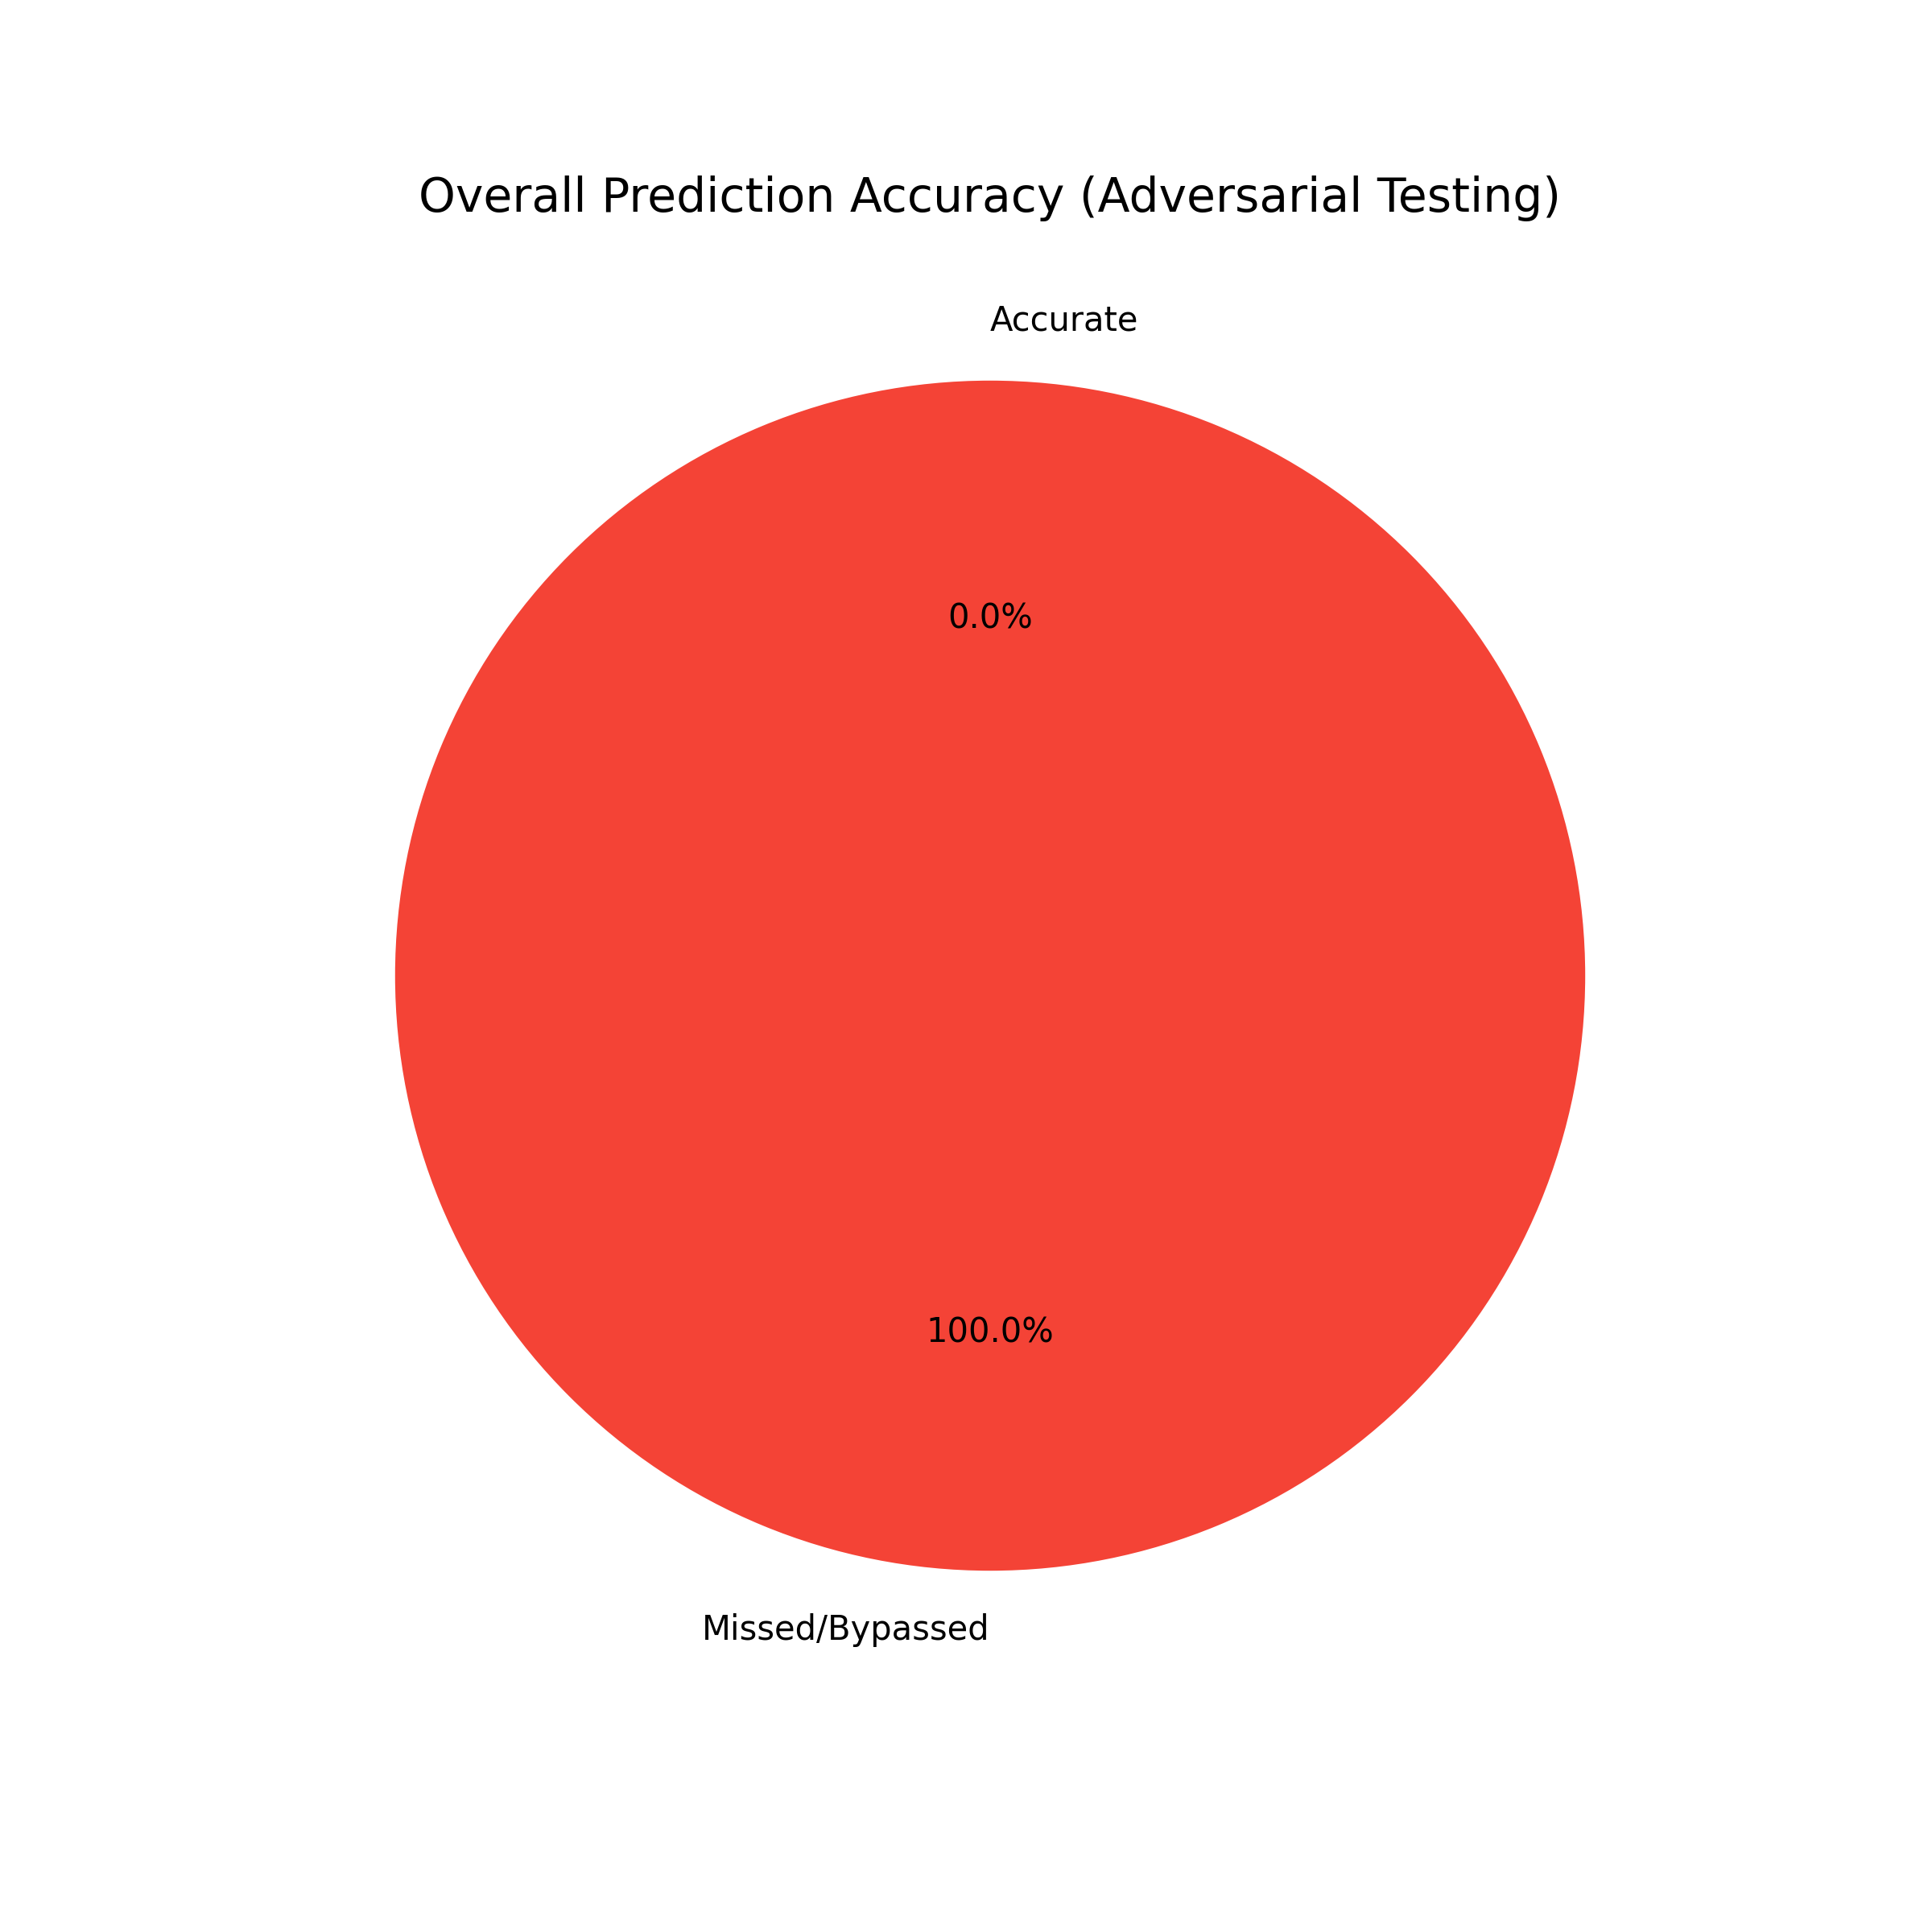
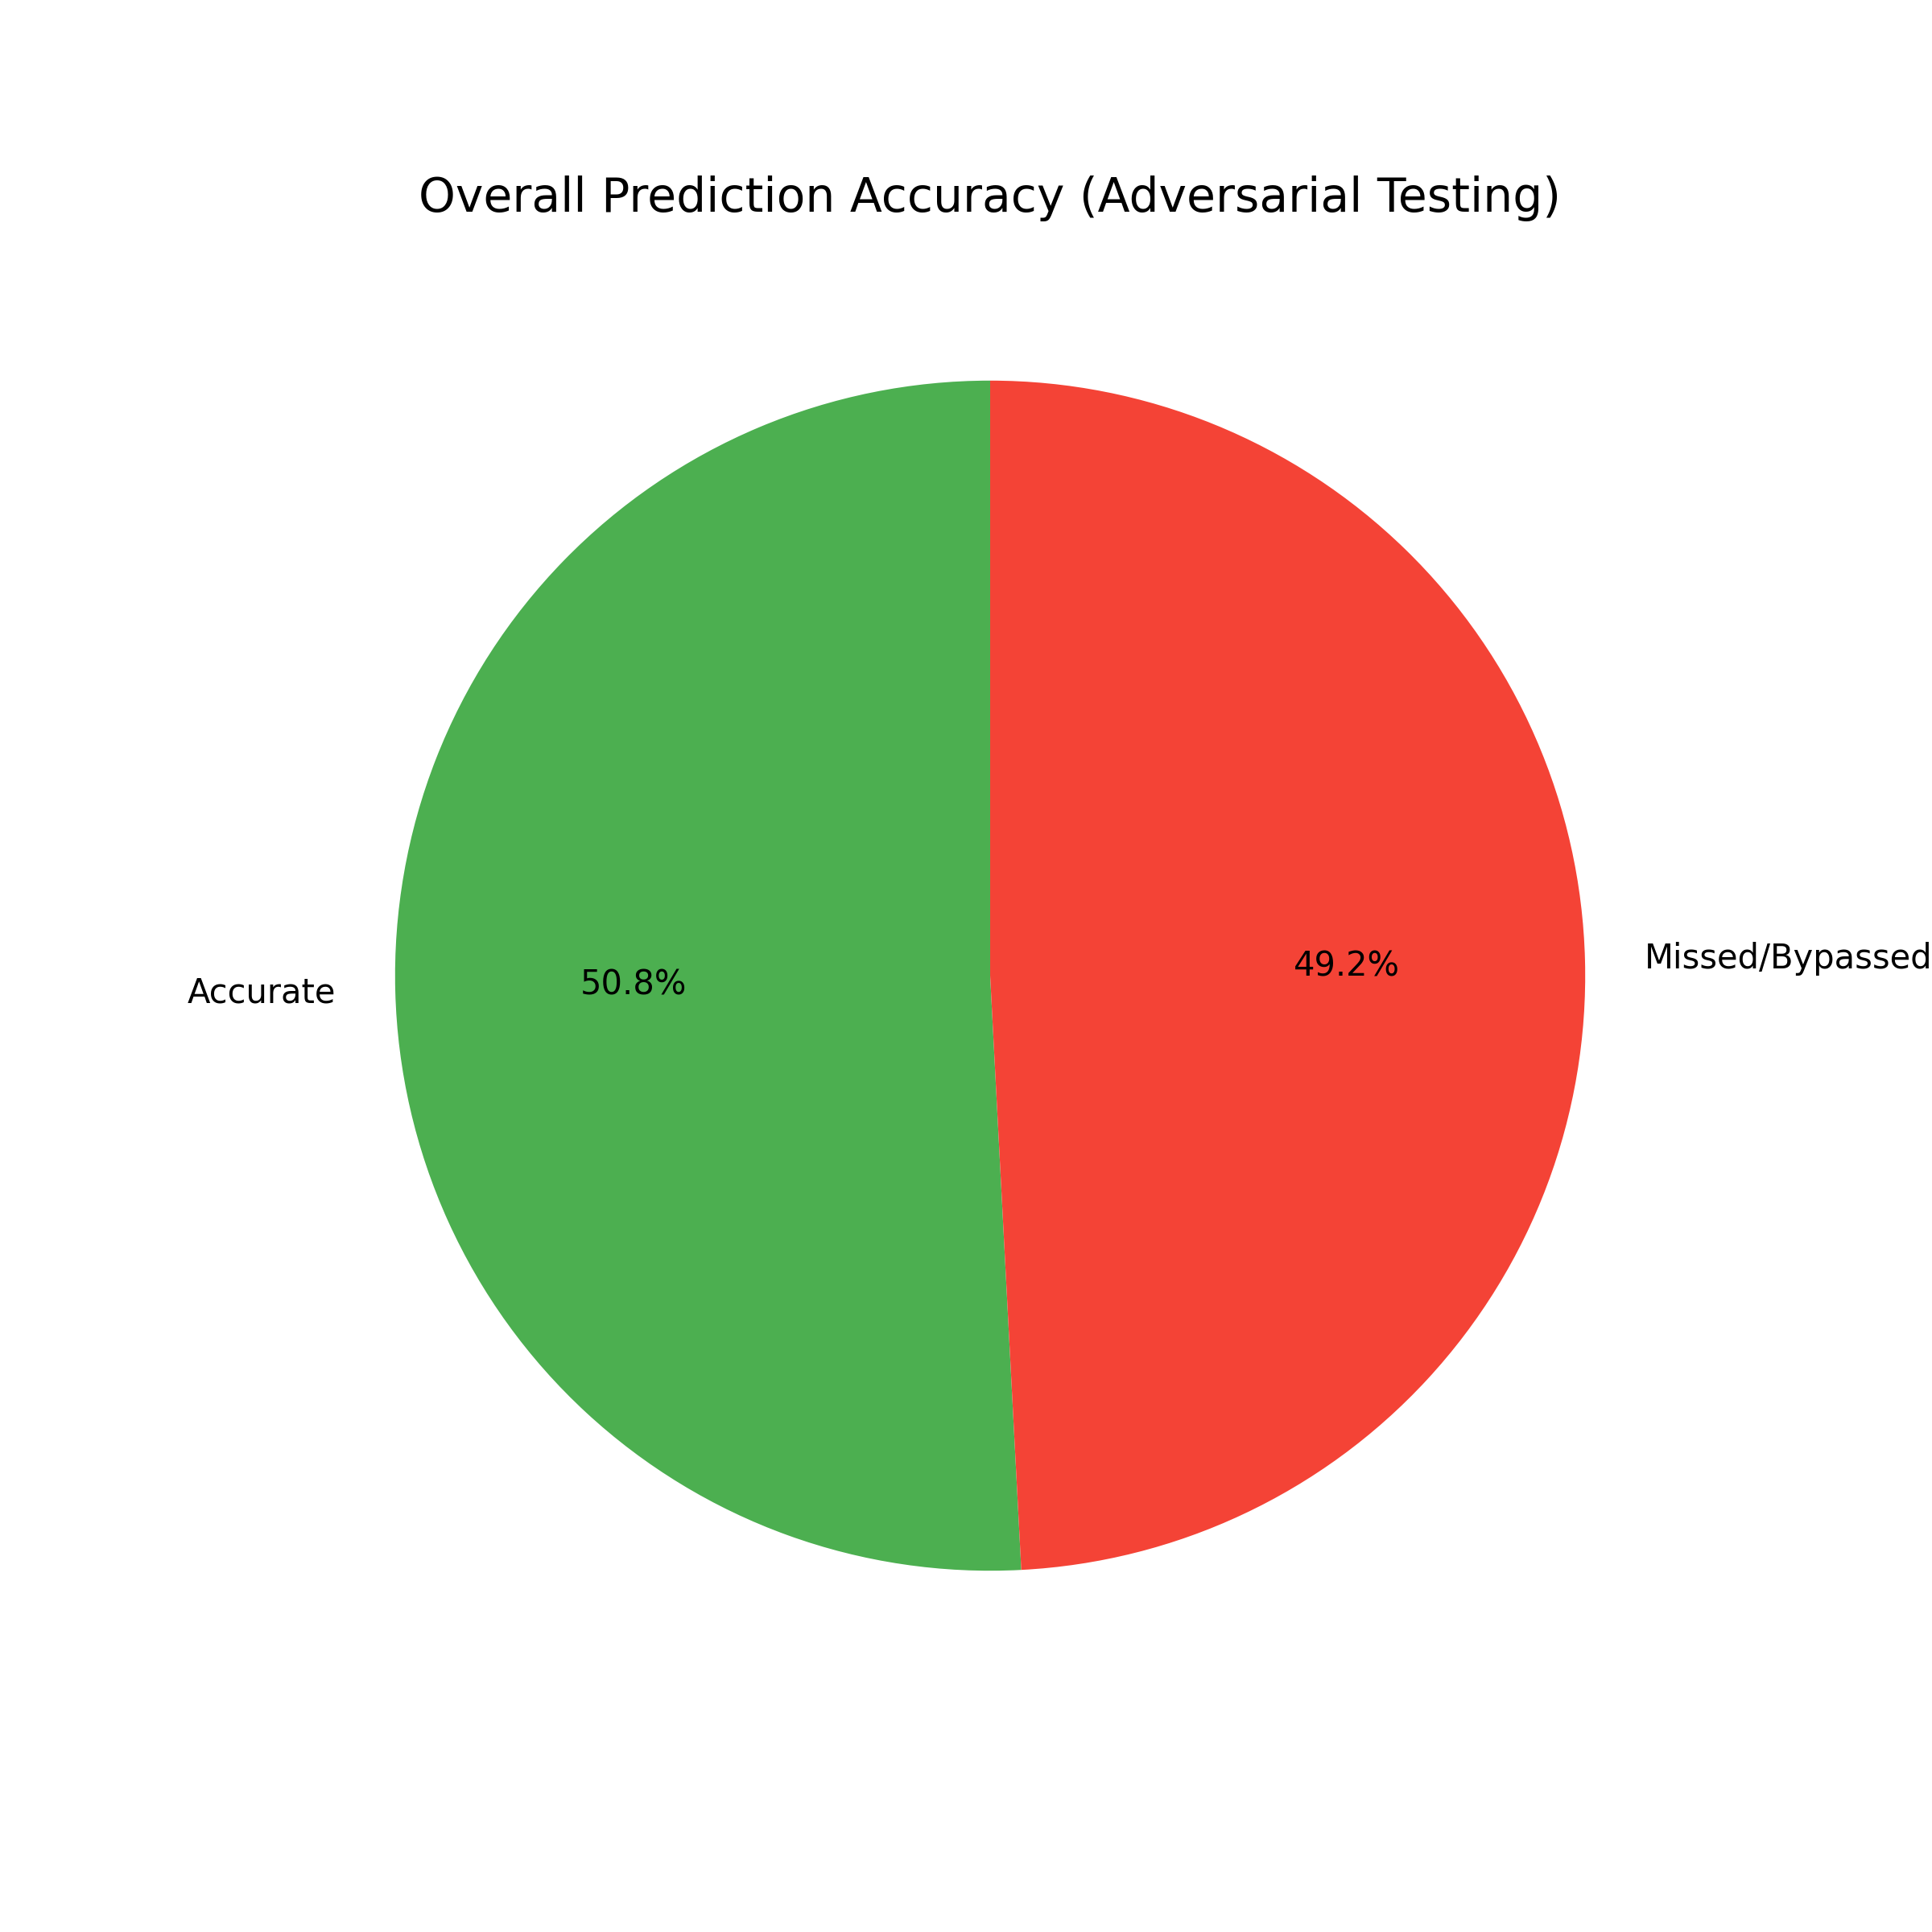
fix(guardrails): close encoding bypass gaps + correct robustness metric label
Two fixes prompted by an external review of the robustness results.

1. Honesty-critical metric mislabel: evaluate_robustness.py named the
   block rate "defeat_rate" (blocked/total), so the report read "Defeat
   Rate 37.5%" while actually meaning "only 37.5% of attacks blocked"
   (62.5% bypassed). Reviewers read it inverted. Renamed to explicit
   block_rate_pct / bypass_rate_pct, fixed the printed labels, and
   aligned plot_results.py to the real JSON schema (it was reading
   non-existent keys) with corrected "Resistance (Block) Rate" labels.

2. EncodingNeutralizer now also neutralizes base32, ROT13, leetspeak,
   Cyrillic/Greek homoglyphs (NFKC + confusable fold), and numeric HTML
   entities. The new decoders are guarded: a decoded variant is only
   surfaced when it looks malicious AND the original did not, so benign
   text is never mangled (verified: benign payloads unchanged).

Static encoding_bypass resistance 66.7% -> 100% (45/45); overall static
guardrail resistance 37.5% -> 50.8%. The remaining bypassed categories
(semantic_confusion, jailbreak) are by design caught downstream by the
LLM + Tier-Consensus guard, not this static layer. All 109 unit tests
pass; existing neutralize() invariants preserved.

diff --git a/src/guardrails/prompt_filter.py b/src/guardrails/prompt_filter.py
@@ -6,7 +6,10 @@ import re
 import yaml  # type: ignore
 import os
 import base64
+import codecs
+import html
 import secrets
+import unicodedata
 import urllib.parse
 from typing import Optional
 
@@ -148,6 +151,43 @@ class JailbreakDetector:
 # =========================================================================
 # 2. ENCODING NEUTRALIZER
 # =========================================================================
+
+# Cyrillic / Greek look-alike characters -> ASCII Latin (homoglyph folding).
+_CONFUSABLE_MAP = str.maketrans({
+    # Cyrillic lowercase
+    "а": "a", "е": "e", "о": "o", "р": "p", "с": "c", "у": "y", "х": "x",
+    "ѕ": "s", "і": "i", "ј": "j", "ԛ": "q", "ԝ": "w", "ё": "e", "к": "k",
+    "м": "m", "н": "h", "т": "t", "в": "b",
+    # Cyrillic uppercase
+    "А": "A", "Е": "E", "О": "O", "Р": "P", "С": "C", "У": "Y", "Х": "X",
+    "І": "I", "Ј": "J", "К": "K", "М": "M", "Н": "H", "Т": "T", "В": "B",
+    # Greek
+    "ο": "o", "α": "a", "ρ": "p", "ε": "e", "τ": "t", "υ": "u", "ι": "i",
+    "κ": "k", "ν": "v", "Ο": "O", "Α": "A", "Ρ": "P", "Ε": "E", "Τ": "T",
+    "Ι": "I", "Κ": "K", "Ν": "N",
+})
+
+# Common leetspeak substitutions -> ASCII letters.
+_LEET_MAP = str.maketrans({
+    "0": "o", "1": "i", "3": "e", "4": "a", "5": "s", "7": "t",
+    "$": "s", "@": "a", "!": "i", "|": "l",
+})
+
+# Substrings that mark a decoded payload as an injection/jailbreak attempt.
+_DECODE_TRIGGERS = (
+    "ignore", "disregard", "previous", "instruction", "system prompt",
+    "system", "prompt", "override", "bypass", "jailbreak", "reveal",
+    "developer mode", "you are now", "act as", "sudo", "exfiltrat",
+    "password", "drop table", "<script",
+)
+
+
+def _looks_malicious(text: str) -> bool:
+    """True if the (decoded) text contains an injection/jailbreak indicator."""
+    low = text.lower()
+    return any(trigger in low for trigger in _DECODE_TRIGGERS)
+
+
 class EncodingNeutralizer:
     """
     Tầng 2: Vô hiệu hóa Encoding Bypass tricks.
@@ -171,6 +211,8 @@ class EncodingNeutralizer:
 
     @staticmethod
     def neutralize_html_entities(text: str) -> str:
+        # Giải mã HTML entities trước (&#60;script&#62; -> <script>) rồi mới strip tag
+        text = html.unescape(text)
         # Loại bỏ và strip thẻ script/html độc hại thay vì chỉ encode
         clean = re.sub(
             r"<script[^>]*>.*?</script>",
@@ -190,9 +232,38 @@ class EncodingNeutralizer:
 
     @staticmethod
     def normalize_unicode(text: str) -> str:
+        # NFKC fold neutralizes fullwidth/compatibility homoglyphs (ｉｇｎｏｒｅ -> ignore)
+        text = unicodedata.normalize("NFKC", text)
         # Strip zero-width joiners, spaces, control characters
         cleaned = re.sub(r"[\u200b\u200c\u200d\ufeff\u00ad\x00]", "", text)
         return cleaned
+
+    @staticmethod
+    def fold_homoglyphs(text: str) -> str:
+        """Map Cyrillic/Greek look-alike chars to their ASCII Latin equivalents."""
+        return text.translate(_CONFUSABLE_MAP)
+
+    @staticmethod
+    def normalize_leetspeak(text: str) -> str:
+        """Fold common leetspeak substitutions (1gn0r3 -> ignore)."""
+        return text.translate(_LEET_MAP)
+
+    @staticmethod
+    def decode_rot13(text: str) -> str:
+        """ROT13 only shifts ASCII letters; digits/symbols are untouched."""
+        return codecs.encode(text, "rot_13")
+
+    @staticmethod
+    def decode_if_base32(text: str) -> Optional[str]:
+        try:
+            clean = text.strip().upper()
+            if re.fullmatch(r"[A-Z2-7]+=*", clean) and len(clean) >= 16:
+                decoded = base64.b32decode(clean).decode("utf-8", errors="ignore")
+                if decoded.isprintable() and len(decoded) > 3:
+                    return decoded
+        except Exception:
+            pass
+        return None
 
     @staticmethod
     def decode_url_and_hex(text: str) -> str:
@@ -207,6 +278,25 @@ class EncodingNeutralizer:
         decoded = re.sub(r"\\x([0-9a-fA-F]{2})", hex_repl, decoded)
         return decoded
 
+    def _expose_obfuscated(self, text: str) -> str:
+        """Reveal base32/rot13/leetspeak/homoglyph payloads that decode to an
+        injection attempt. Guarded: only appends a marker when the *decoded*
+        variant looks malicious AND the original did not — so benign text and
+        already-flagged text are never mangled (keeps false-positive rate low)."""
+        if _looks_malicious(text):
+            return text
+        additions = []
+        candidates = [
+            ("BASE32", self.decode_if_base32(text)),
+            ("ROT13", self.decode_rot13(text)),
+            ("LEET", self.normalize_leetspeak(text)),
+            ("HOMOGLYPH", self.fold_homoglyphs(text)),
+        ]
+        for name, decoded in candidates:
+            if decoded and decoded != text and _looks_malicious(decoded):
+                additions.append(f"[{name}_DECODED: {decoded}]")
+        return f"{text} {' '.join(additions)}" if additions else text
+
     def neutralize(self, log_entry: dict) -> dict:
         """Chạy toàn bộ pipeline neutralization trên log entry."""
         neutralized = {}
@@ -218,6 +308,7 @@ class EncodingNeutralizer:
             str_value = self.normalize_unicode(str_value)
             str_value = self.decode_url_and_hex(str_value)
             str_value = self.decode_if_base64(str_value)
+            str_value = self._expose_obfuscated(str_value)
             str_value = self.neutralize_html_entities(str_value)
             neutralized[key] = str_value
         return neutralized

diff --git a/experiments/plot_results.py b/experiments/plot_results.py
@@ -21,29 +21,27 @@ def plot_robustness():
 
     os.makedirs(OUTPUT_DIR, exist_ok=True)
 
-    # 1. Biểu đồ Tỷ lệ Chặn (Defeat Rate)
-    labels = ["Structural Injection", "Encoding Bypass", "Semantic Confusion"]
-    # Phân tích dữ liệu từ category_breakdown
-    breakdown = data.get("category_breakdown", {})
+    # 1. Biểu đồ Tỷ lệ Kháng (Resistance / Block Rate) theo từng nhóm tấn công
+    summary = data.get("summary", {})
+    breakdown = summary.get("by_category", {})
     categories = []
-    defeat_pcts = []
+    block_pcts = []
 
-    for cat, stats_wrapper in breakdown.items():
+    for cat, stats in breakdown.items():
         categories.append(cat.replace("_", " ").title())
-        stats = stats_wrapper.get("stats", {})
-        total = stats.get("total", 1)
-        blocked = stats.get("fully_blocked", 0)
-        defeat_pcts.append((blocked / total) * 100)
+        total = stats.get("total", 1) or 1
+        blocked = stats.get("blocked", 0)
+        block_pcts.append((blocked / total) * 100)
 
     plt.figure(figsize=(10, 6))
     bars = plt.bar(
         categories,
-        defeat_pcts,
-        color=["#ff9999", "#66b3ff", "#99ff99", "#ffcc99"][: len(categories)],
+        block_pcts,
+        color=["#ff9999", "#66b3ff", "#99ff99", "#ffcc99", "#c2a5ff"][: len(categories)],
     )
     plt.ylim(0, 110)
-    plt.ylabel("Defeat Rate (%)", fontsize=12)
-    plt.title("Sentinel Guardrails Defeat Rate by Attack Category", fontsize=14)
+    plt.ylabel("Resistance / Block Rate (%)", fontsize=12)
+    plt.title("Sentinel Guardrails Resistance (Block) Rate by Attack Category", fontsize=14)
 
     # Thêm nhãn giá trị trên đầu cột
     for bar in bars:
@@ -58,14 +56,13 @@ def plot_robustness():
             fontweight="bold",
         )
 
-    out_file = os.path.join(OUTPUT_DIR, "robustness_defeat_rate.png")
+    out_file = os.path.join(OUTPUT_DIR, "robustness_block_rate.png")
     plt.savefig(out_file, dpi=300, bbox_inches="tight")
-    print(f"[+] Saved Defeat Rate Plot -> {out_file}")
+    print(f"[+] Saved Resistance (Block) Rate Plot -> {out_file}")
 
     # 2. Biểu đồ tròn Tỷ lệ Chính xác Tổng thể
     plt.figure(figsize=(8, 8))
-    metrics = data.get("metrics", {})
-    acc = metrics.get("overall_prediction_accuracy", 0.0) * 100
+    acc = summary.get("accuracy", 0.0)
     err = 100 - acc
 
     plt.pie(

diff --git a/experiments/evaluate_robustness.py b/experiments/evaluate_robustness.py
@@ -163,7 +163,7 @@ def print_report(results: dict):
         blocked = stats["fully_blocked"]
         bypassed = stats["bypassed"]
         correct = sum(1 for d in stats["details"] if d["correct_prediction"])
-        defeat_rate = (blocked / total * 100) if total > 0 else 0
+        block_rate = (blocked / total * 100) if total > 0 else 0
         accuracy = (correct / total * 100) if total > 0 else 0
 
         total_all += total
@@ -174,8 +174,8 @@ def print_report(results: dict):
         print(f"  Category: {category.upper().replace('_', ' ')}")
         print(f"{'─' * 70}")
         print(f"  Total Samples:          {total}")
-        print(f"  Blocked by Guardrails:  {blocked} ({defeat_rate:.1f}%)")
-        print(f"  Bypassed:               {bypassed} ({100 - defeat_rate:.1f}%)")
+        print(f"  Blocked (resistance):   {blocked} ({block_rate:.1f}%)")
+        print(f"  Bypassed (defeat):      {bypassed} ({100 - block_rate:.1f}%)")
         print(f"  Prediction Accuracy:    {correct}/{total} ({accuracy:.1f}%)")
         print(f"  ├─ Pattern Detection:   {stats['detected_by_pattern']}")
         print(f"  ├─ Encoding Neutral.:   {stats['neutralized_encoding']}")
@@ -189,7 +189,8 @@ def print_report(results: dict):
                 print(f"    - {d['id']} ({d['attack_type']})")
 
     # Tóm tắt
-    overall_defeat = (blocked_all / total_all * 100) if total_all > 0 else 0
+    overall_block = (blocked_all / total_all * 100) if total_all > 0 else 0
+    overall_bypass = 100 - overall_block if total_all > 0 else 0
     overall_accuracy = (correct_all / total_all * 100) if total_all > 0 else 0
 
     print(f"\n{'=' * 70}")
@@ -197,7 +198,10 @@ def print_report(results: dict):
     print(f"{'=' * 70}")
     print(f"  Total Adversarial Samples:  {total_all}")
     print(
-        f"  Overall Defeat Rate:        {blocked_all}/{total_all} ({overall_defeat:.1f}%)"
+        f"  Resistance (Block) Rate:    {blocked_all}/{total_all} ({overall_block:.1f}%)"
+    )
+    print(
+        f"  Defeat (Bypass) Rate:       {total_all - blocked_all}/{total_all} ({overall_bypass:.1f}%)"
     )
     print(
         f"  Overall Prediction Acc:     {correct_all}/{total_all} ({overall_accuracy:.1f}%)"
@@ -207,14 +211,21 @@ def print_report(results: dict):
     return {
         "total": total_all,
         "blocked": blocked_all,
-        "defeat_rate": overall_defeat,
+        # NOTE: explicit, unambiguous metric names. `block_rate_pct` = % of
+        # adversarial samples the static guardrails stopped (resistance);
+        # `bypass_rate_pct` = % that got through (the true "defeat" rate).
+        "block_rate_pct": overall_block,
+        "bypass_rate_pct": overall_bypass,
         "accuracy": overall_accuracy,
         "by_category": {
             cat: {
                 "total": s["total"],
                 "blocked": s["fully_blocked"],
-                "defeat_rate": (
+                "block_rate_pct": (
                     (s["fully_blocked"] / s["total"] * 100) if s["total"] > 0 else 0
+                ),
+                "bypass_rate_pct": (
+                    (s["bypassed"] / s["total"] * 100) if s["total"] > 0 else 0
                 ),
             }
             for cat, s in results.items()